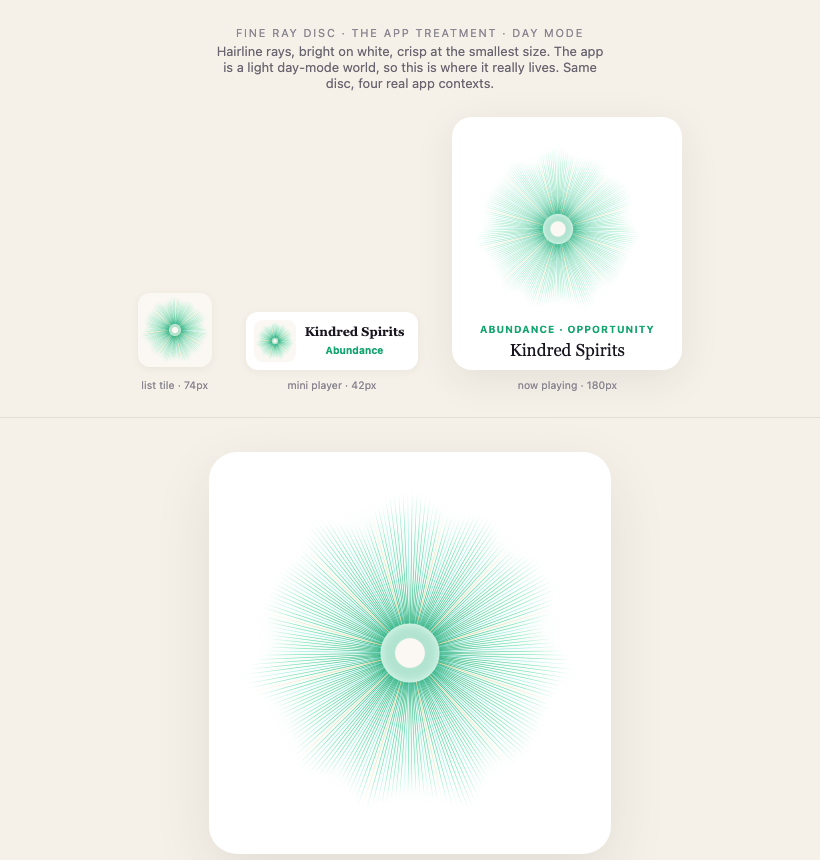
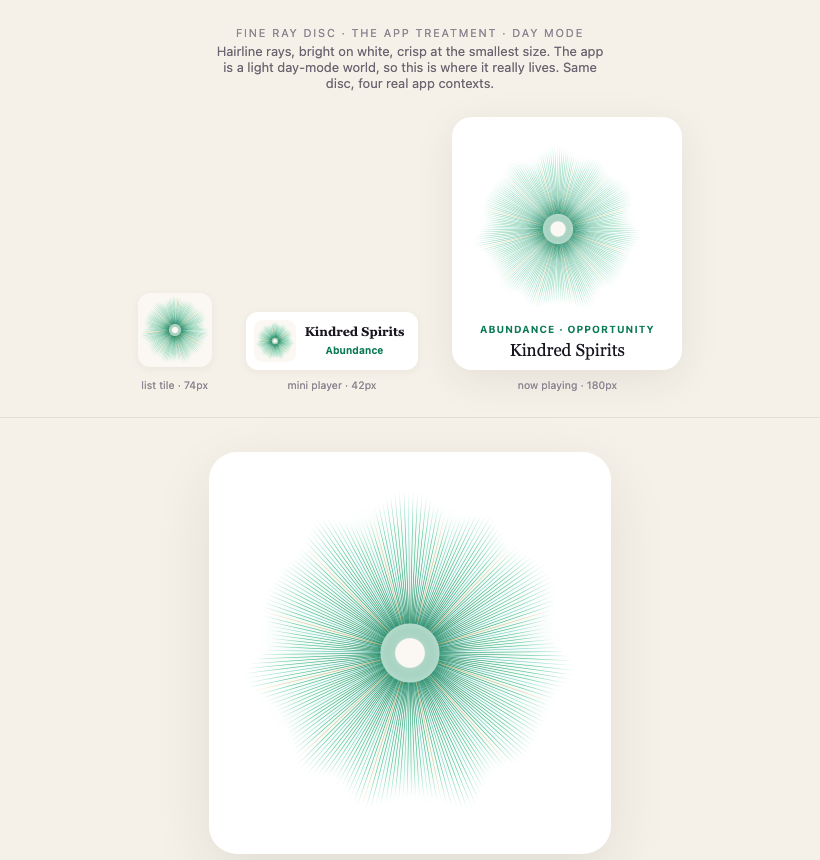
Fine disc day-mode polish: Vitality & Abundance use deeper in-range tones (striking on white) + sophisticated secondaries (rust/bronze, teal/bronze); visible beat pulse (length+brightness+core); Core/Love unchanged; ?f= preview param

Changed region(s): [[0.3049, 0.5744, 0.6707, 0.9372], [0.6098, 0.1814, 0.7622, 0.3326], [0.1829, 0.3628, 0.2439, 0.393]]

diff --git a/explorations/rays-fine.html b/explorations/rays-fine.html
@@ -61,29 +61,39 @@ canvas{display:block}
 </div>
 
 <script>
-const FR={core:['#6521C9','#A737C8'],love:['#B90044','#CF4090'],vitality:['#FF9112','#FFC251'],abundance:['#12A56E','#46D99A']};
-const SEC={
-  core:[['#7A4AE0','#B98AF0'],['#C24FA8','#E07AC8']],
-  love:[['#E8663E','#F0A070'],['#D8489A','#EE8CC0']],
-  vitality:[['#F0592E','#F59060'],['#FFD37A','#FFE7B0']],
-  abundance:[['#15B8A6','#5FE0D2'],['#D9B45A','#F0D28A']]
+// DAY (on white): deeper tones for the light-hued frequencies so they read as striking as Core & Love
+const DAY={
+  core:{d:['#6521C9','#A737C8'],s:[['#7A4AE0','#B98AF0'],['#C24FA8','#E07AC8']]},
+  love:{d:['#B90044','#CF4090'],s:[['#E8663E','#F0A070'],['#D8489A','#EE8CC0']]},
+  vitality:{d:['#C25500','#FF9112'],s:[['#B5451F','#DD6A3C'],['#B8860B','#DDA92E']]},   // deep burnt->amber, rust + bronze
+  abundance:{d:['#0A7A52','#1FB577'],s:[['#0E8E80','#2ABBAA'],['#A8832A','#CBA646']]}   // deep->vivid green, teal + bronze
 };
+// NIGHT (on dark): brighter ends so they glow
+const NIGHT={
+  core:{d:['#6521C9','#A737C8'],s:[['#7A4AE0','#B98AF0'],['#C24FA8','#E07AC8']]},
+  love:{d:['#B90044','#CF4090'],s:[['#E8663E','#F0A070'],['#D8489A','#EE8CC0']]},
+  vitality:{d:['#FF9112','#FFC251'],s:[['#F0592E','#F59060'],['#FFD37A','#FFE7B0']]},
+  abundance:{d:['#12A56E','#46D99A'],s:[['#15B8A6','#5FE0D2'],['#D9B45A','#F0D28A']]}
+};
+function labelColor(f){return DAY[f].d[0];}
 const LAB={core:'Core',love:'Love',vitality:'Vitality',abundance:'Abundance'};
 const ROLE={core:'Identity',love:'Relationships',vitality:'Energy',abundance:'Opportunity'};
 let freq='abundance', night=false, t0=performance.now();
+{const q=new URLSearchParams(location.search); if(q.get('f')&&DAY[q.get('f')])freq=q.get('f'); if(q.has('night'))night=true;}
 function hx(h){h=h.replace('#','');return [parseInt(h.slice(0,2),16),parseInt(h.slice(2,4),16),parseInt(h.slice(4,6),16)];}
 function mix(a,b,t){return a.map((v,i)=>v+(b[i]-v)*t);}
 function rgba(c,a){return `rgba(${c[0]|0},${c[1]|0},${c[2]|0},${a})`;}
 function envelope(a,tt){return 1+0.15*Math.sin(a*11+Math.sin(tt*0.4))+0.09*Math.sin(a*7-tt*0.25)+0.05*Math.sin(a*17+tt*0.5);}
-function beat(tt){const p=(tt*0.9)%1;return p<0.14?p/0.14:Math.pow(1-(p-0.14)/0.86,1.6);}
+function beat(tt){const p=(tt*1.7)%1;return p<0.11?p/0.11:Math.pow(1-(p-0.11)/0.89,1.7);}  // ~102 bpm, sharper
 
 function drawDisc(cv){
   const x=cv.getContext('2d'); const W=cv.width,H=cv.height; x.clearRect(0,0,W,H);
   const dark=night;
   const cx=W/2, cy=H/2, tt=(performance.now()-t0)/1000;
-  const pr=hx(FR[freq][0]), en=hx(FR[freq][1]);
-  const s0a=hx(SEC[freq][0][0]),s0b=hx(SEC[freq][0][1]),s1a=hx(SEC[freq][1][0]),s1b=hx(SEC[freq][1][1]);
-  const env=beat(tt), R=Math.min(W,H)*0.46, r0=Math.min(W,H)*0.085, rot=tt*0.05;
+  const P=(dark?NIGHT:DAY)[freq];
+  const pr=hx(P.d[0]), en=hx(P.d[1]);
+  const s0a=hx(P.s[0][0]),s0b=hx(P.s[0][1]),s1a=hx(P.s[1][0]),s1b=hx(P.s[1][1]);
+  const env=beat(tt), bmul=0.8+0.34*env, R=Math.min(W,H)*0.46, r0=Math.min(W,H)*0.085, rot=tt*0.05+env*0.02;
   const N=Math.max(90,Math.min(220,Math.round(W*0.9)));
   // soft frequency wash behind so it reads bright on white
   const tg=x.createRadialGradient(cx,cy,r0,cx,cy,R*0.95);
@@ -93,22 +103,23 @@ function drawDisc(cv){
   x.globalCompositeOperation = dark ? 'lighter' : 'source-over';
   for(let i=0;i<N;i++){
     const a=i/N*Math.PI*2+rot, e=envelope(a,tt);
-    const len=R*(0.62+0.34*e)*(0.94+0.06*env);
+    const len=R*(0.60+0.34*e)*(0.90+0.15*env);   // visible beat pulse
     const x1=cx+Math.cos(a)*r0, y1=cy+Math.sin(a)*r0, x2=cx+Math.cos(a)*len, y2=cy+Math.sin(a)*len;
     let cA=pr,cB=en,mul=1;
     if(i%6===0){cA=s0a;cB=s0b;mul=0.75;} else if(i%9===0){cA=s1a;cB=s1b;mul=0.72;}
     const g=x.createLinearGradient(x1,y1,x2,y2);
     const c1=dark?mix(cA,cB,0.2):cA, c2=cB;
-    g.addColorStop(0,rgba(c1,(dark?0.55:1)*mul)); g.addColorStop(0.7,rgba(c2,(dark?0.35:0.72)*mul)); g.addColorStop(1,rgba(c2,0));
+    g.addColorStop(0,rgba(c1,(dark?0.55:1)*mul*bmul)); g.addColorStop(0.7,rgba(c2,(dark?0.35:0.72)*mul*bmul)); g.addColorStop(1,rgba(c2,0));
     x.strokeStyle=g; x.lineWidth=Math.max(0.7,W/700*1.25);
     x.beginPath(); x.moveTo(x1,y1); x.lineTo(x2,y2); x.stroke();
   }
-  // soft core glow
-  const core=x.createRadialGradient(cx,cy,0,cx,cy,r0*1.8);
+  // soft core glow (pulses on the beat)
+  const cp=1+0.16*env;
+  const core=x.createRadialGradient(cx,cy,0,cx,cy,r0*1.8*cp);
   if(dark){core.addColorStop(0,rgba(mix(en,[255,255,255],0.5),0.9));core.addColorStop(1,rgba(en,0));}
-  else{core.addColorStop(0,'rgba(255,255,255,0.95)');core.addColorStop(0.55,rgba(pr,0.12));core.addColorStop(1,rgba(pr,0));}
+  else{core.addColorStop(0,'rgba(255,255,255,0.95)');core.addColorStop(0.55,rgba(pr,0.10+0.08*env));core.addColorStop(1,rgba(pr,0));}
   x.globalCompositeOperation='source-over';
-  x.fillStyle=core; x.beginPath(); x.arc(cx,cy,r0*1.9,0,7); x.fill();
+  x.fillStyle=core; x.beginPath(); x.arc(cx,cy,r0*1.9*cp,0,7); x.fill();
   // open centre "eye" (where the play button sits)
   x.fillStyle=dark?'#120c1c':'#FBF8F3'; x.beginPath(); x.arc(cx,cy,r0*0.5,0,7); x.fill();
 }
@@ -117,10 +128,10 @@ function loop(){ cs.forEach(drawDisc); requestAnimationFrame(loop); }
 requestAnimationFrame(loop);
 document.querySelectorAll('[data-f]').forEach(b=>b.onclick=()=>{freq=b.dataset.f;
   document.querySelectorAll('[data-f]').forEach(o=>o.classList.toggle('on',o===b));
-  const ml=document.getElementById('miniLab'); ml.textContent=LAB[freq]; ml.style.color=FR[freq][0];
-  const npf=document.getElementById('npf'); npf.textContent=LAB[freq]+' · '+ROLE[freq]; npf.style.color=FR[freq][0];});
-document.getElementById('miniLab').style.color=FR.abundance[0];
-document.getElementById('npf').style.color=FR.abundance[0];
+  const ml=document.getElementById('miniLab'); ml.textContent=LAB[freq]; ml.style.color=labelColor(freq);
+  const npf=document.getElementById('npf'); npf.textContent=LAB[freq]+' · '+ROLE[freq]; npf.style.color=labelColor(freq);});
+document.getElementById('miniLab').style.color=labelColor("abundance");
+document.getElementById('npf').style.color=labelColor("abundance");
 document.getElementById('mode').onclick=function(){ night=!night; document.body.classList.toggle('night',night);
   this.textContent=night?'☾ Night':'☀ Day'; };
 </script>